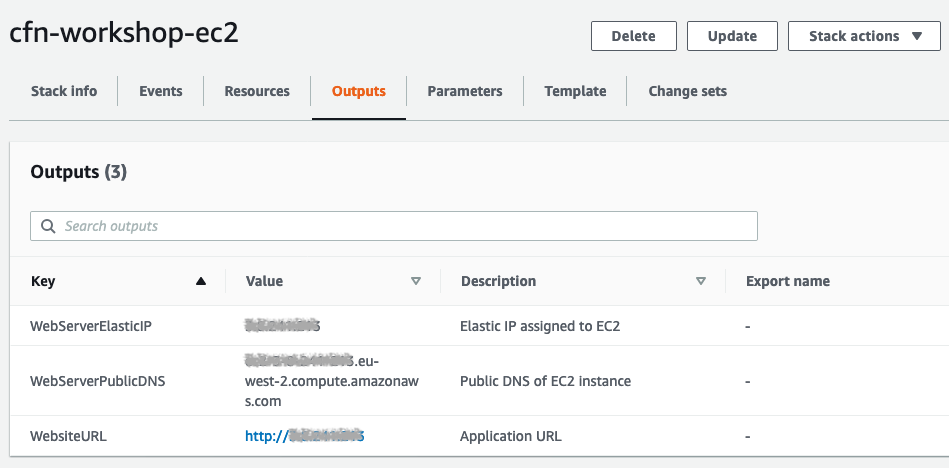
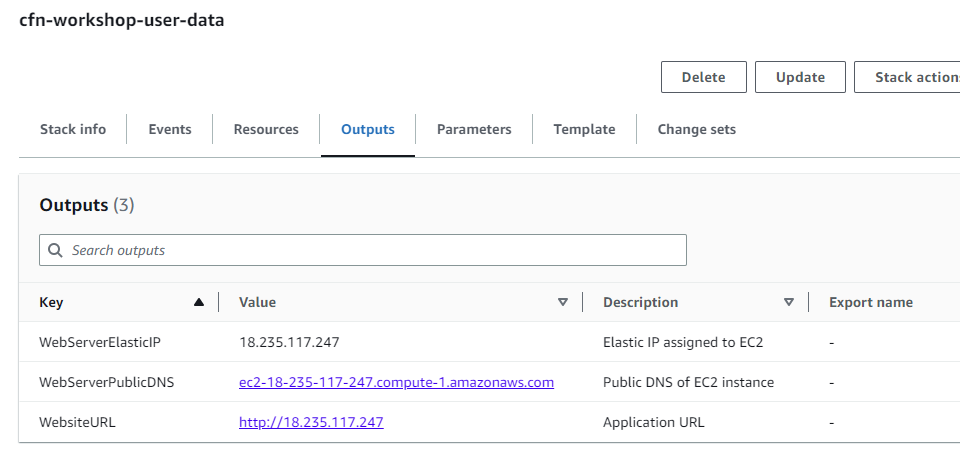
Add cloud9 instructions to user-data page (#207)
* Add cloud9 instructions

* Update instructions to copy via S3

* Update to use CLI

* Some fixes
Add delete section

* Fix heading

* Update content/basics/operations/user-data/index.md

* Apply suggestions from code review

* Update images to be us-east-1

* Minor fixes

* Update visuals and formatting

---------

diff --git a/content/basics/operations/user-data/index.md b/content/basics/operations/user-data/index.md
@@ -34,16 +34,17 @@ The following diagram provides a high-level overview of the architecture you wil
 
 Begin by creating a Security Group.
 
-```yaml
+:::code{language=yaml showLineNumbers=true showCopyAction=true lineNumberStart=75}
 WebServerSecurityGroup:
   Type: AWS::EC2::SecurityGroup
   Properties:
     GroupDescription: 'Enable HTTP access via port 80'
-```
+:::
+
 As the Apache web server will serve content on port 80, you will need to create an ingress rule `SecurityGroupIngress`
 in the security group to allow access from the Internet.
 
-```yaml
+:::code{language=yaml showLineNumbers=true showCopyAction=true lineNumberStart=79 highlightLines=83-87}
 WebServerSecurityGroup:
   Type: AWS::EC2::SecurityGroup
   Properties:
@@ -53,11 +54,11 @@ WebServerSecurityGroup:
         FromPort: 80
         ToPort: 80
         CidrIp: 0.0.0.0/0
-```
+:::
 
 Finally, associate the security group with the EC2 instance.
 
-```yaml
+:::code{language=yaml showLineNumbers=true showCopyAction=true lineNumberStart=63 highlightLines=69-70}
 WebServerInstance:
   Type: AWS::EC2::Instance
   Properties:
@@ -69,7 +70,7 @@ WebServerInstance:
     Tags:
       - Key: Name
         Value: !Join [ '-', [ !Ref EnvironmentType, webserver ] ]
-```
+:::
 
 :::alert{type="info"}
 The EC2 instance in the CloudFormation stack will be _replaced_ as a result of modifying the _Security Group_ property.
@@ -86,7 +87,7 @@ User data scripts are executed as the **root** user, so there is no need to use 
 **UserData** must be Base64 encoded when passed from CloudFormation to EC2 instance. Use `Fn::Base64` intrinsic function to encode the input string.
 :::
 
-```yaml
+:::code{language=yaml showLineNumbers=true showCopyAction=true lineNumberStart=74}
 UserData:
   Fn::Base64: |
     #!/bin/bash
@@ -119,35 +120,57 @@ UserData:
       </body>
       </html>
     EOF
-```
+:::
 
 #### 3. Add the **WebsiteURL** to CloudFormation _Outputs_
 
 Copy and paste the code below to the _Outputs_ section of the CloudFormation template.
 
-```yaml
+:::code{language=yaml showLineNumbers=true showCopyAction=true lineNumberStart=132}
 WebsiteURL:
   Value: !Sub http://${WebServerEIP}
   Description: Application URL
-```
+:::
 
-#### 4. Update the Stack
+#### 4. Create the Stack
 
-Similar to previous labs, update the stack with the updated template. Once CloudFormation completes updating the stack,
+Similar to previous labs, create the stack with the updated template. Once CloudFormation completes creating the stack,
 you can then check to see that your script has set up a web server on the EC2 instance.
 
+:::::tabs{variant="container"}
+::::tab{id="cloud9" label="Cloud9"}
+1. In the **Cloud9 terminal** navigate to `code/workspace`:
+:::code{language=shell showLineNumbers=false showCopyAction=true}
+cd cfn101-workshop/code/workspace
+:::
+1. Use the AWS CLI to create the stack. The required parameters `--stack-name`, `--template-body` and `--capabilities` have been pre-filled for you.
+:::code{language=shell showLineNumbers=false showCopyAction=true}
+aws cloudformation create-stack \
+--stack-name cfn-workshop-user-data \
+--template-body file://user-data.yaml \
+--capabilities CAPABILITY_IAM
+:::
+1. If the `create-stack` command was successfully sent, CloudFormation will return `StackId`.
+:::code{language=json showLineNumbers=false showCopyAction=false}
+"StackId": "arn:aws:cloudformation:us-east-1:123456789012:stack/cfn-workshop-user-data/96d87030-e809-11ed-a82c-0eb19aaeb30f"
+:::
+1. Open the **[AWS CloudFormation](https://console.aws.amazon.com/cloudformation)** console in a new tab and wait for stack status to reach **CREATE_COMPLETE**. You need to periodically select Refresh to see the latest stack status.
+::::
+::::tab{id="local" label="Local development"}
 1. Open the **[AWS CloudFormation](https://console.aws.amazon.com/cloudformation)** link in a new tab and log in to your AWS account.
-1. Click on the stack name, for example **cfn-workshop-ec2**.
-1. In the top right corner click on **Update**.
-1. In **Prepare template**, choose **Replace current template**.
+1. Choose **Create stack** _With new resources (Standard)_ from the top-right side of the page.
+1. In **Prepare template**, choose **Template is ready**.
 1. In **Template source**, choose **Upload a template file**.
-1. Click on **Choose file** button and navigate to your workshop directory.
+1. Choose the **Choose file** button and navigate to your workshop directory.
 1. Select the file `user-data.yaml` and click **Next**.
+1. Provide a **Stack name**. For example `cfn-workshop-user-data`.
 1. For **Amazon Machine Image ID** leave the default value in.
 1. For **EnvironmentType** leave the selected environment in.
 1. You can leave **Configure stack options** default, click **Next**.
-1. On the **Review <stack_name>** page, scroll down to the bottom and tick **I acknowledge that AWS CloudFormation might create IAM resources** check box, then click on **Update stack**.
-1. You can click the **refresh** button a few times until you see in the status **UPDATE_COMPLETE**.
+1. On the **Review <stack_name>** page, scroll down to the bottom and tick **I acknowledge that AWS CloudFormation might create IAM resources** check box, then click on **Submit**.
+1. Wait for stack status to reach the **CREATE_COMPLETE**. You need to periodically select Refresh to see the latest stack status.
+::::
+:::::
 
 In a web browser, enter the `WebsiteURL` (you can get the WebsiteURL from the _Outputs_ tab of the CloudFormation console).
 
@@ -156,6 +179,15 @@ In a web browser, enter the `WebsiteURL` (you can get the WebsiteURL from the _O
 You should see a page similar to the picture below:
 
 ![php-page](/static/basics/operations/user-data/php.png)
+
+### Clean up
+
+Follow these steps to clean up created resources:
+
+1. In the **[CloudFormation console](https://console.aws.amazon.com/cloudformation)**, select the stack you have created in this lab. For example `cfn-workshop-user-data`.
+1. In the top right corner, select **Delete**.
+1. In the pop-up window, select **Delete**.
+1. Wait for the stack to reach the **DELETE_COMPLETE** status. You need to periodically select **Refresh** to see the latest stack status.
 
 ---
 
